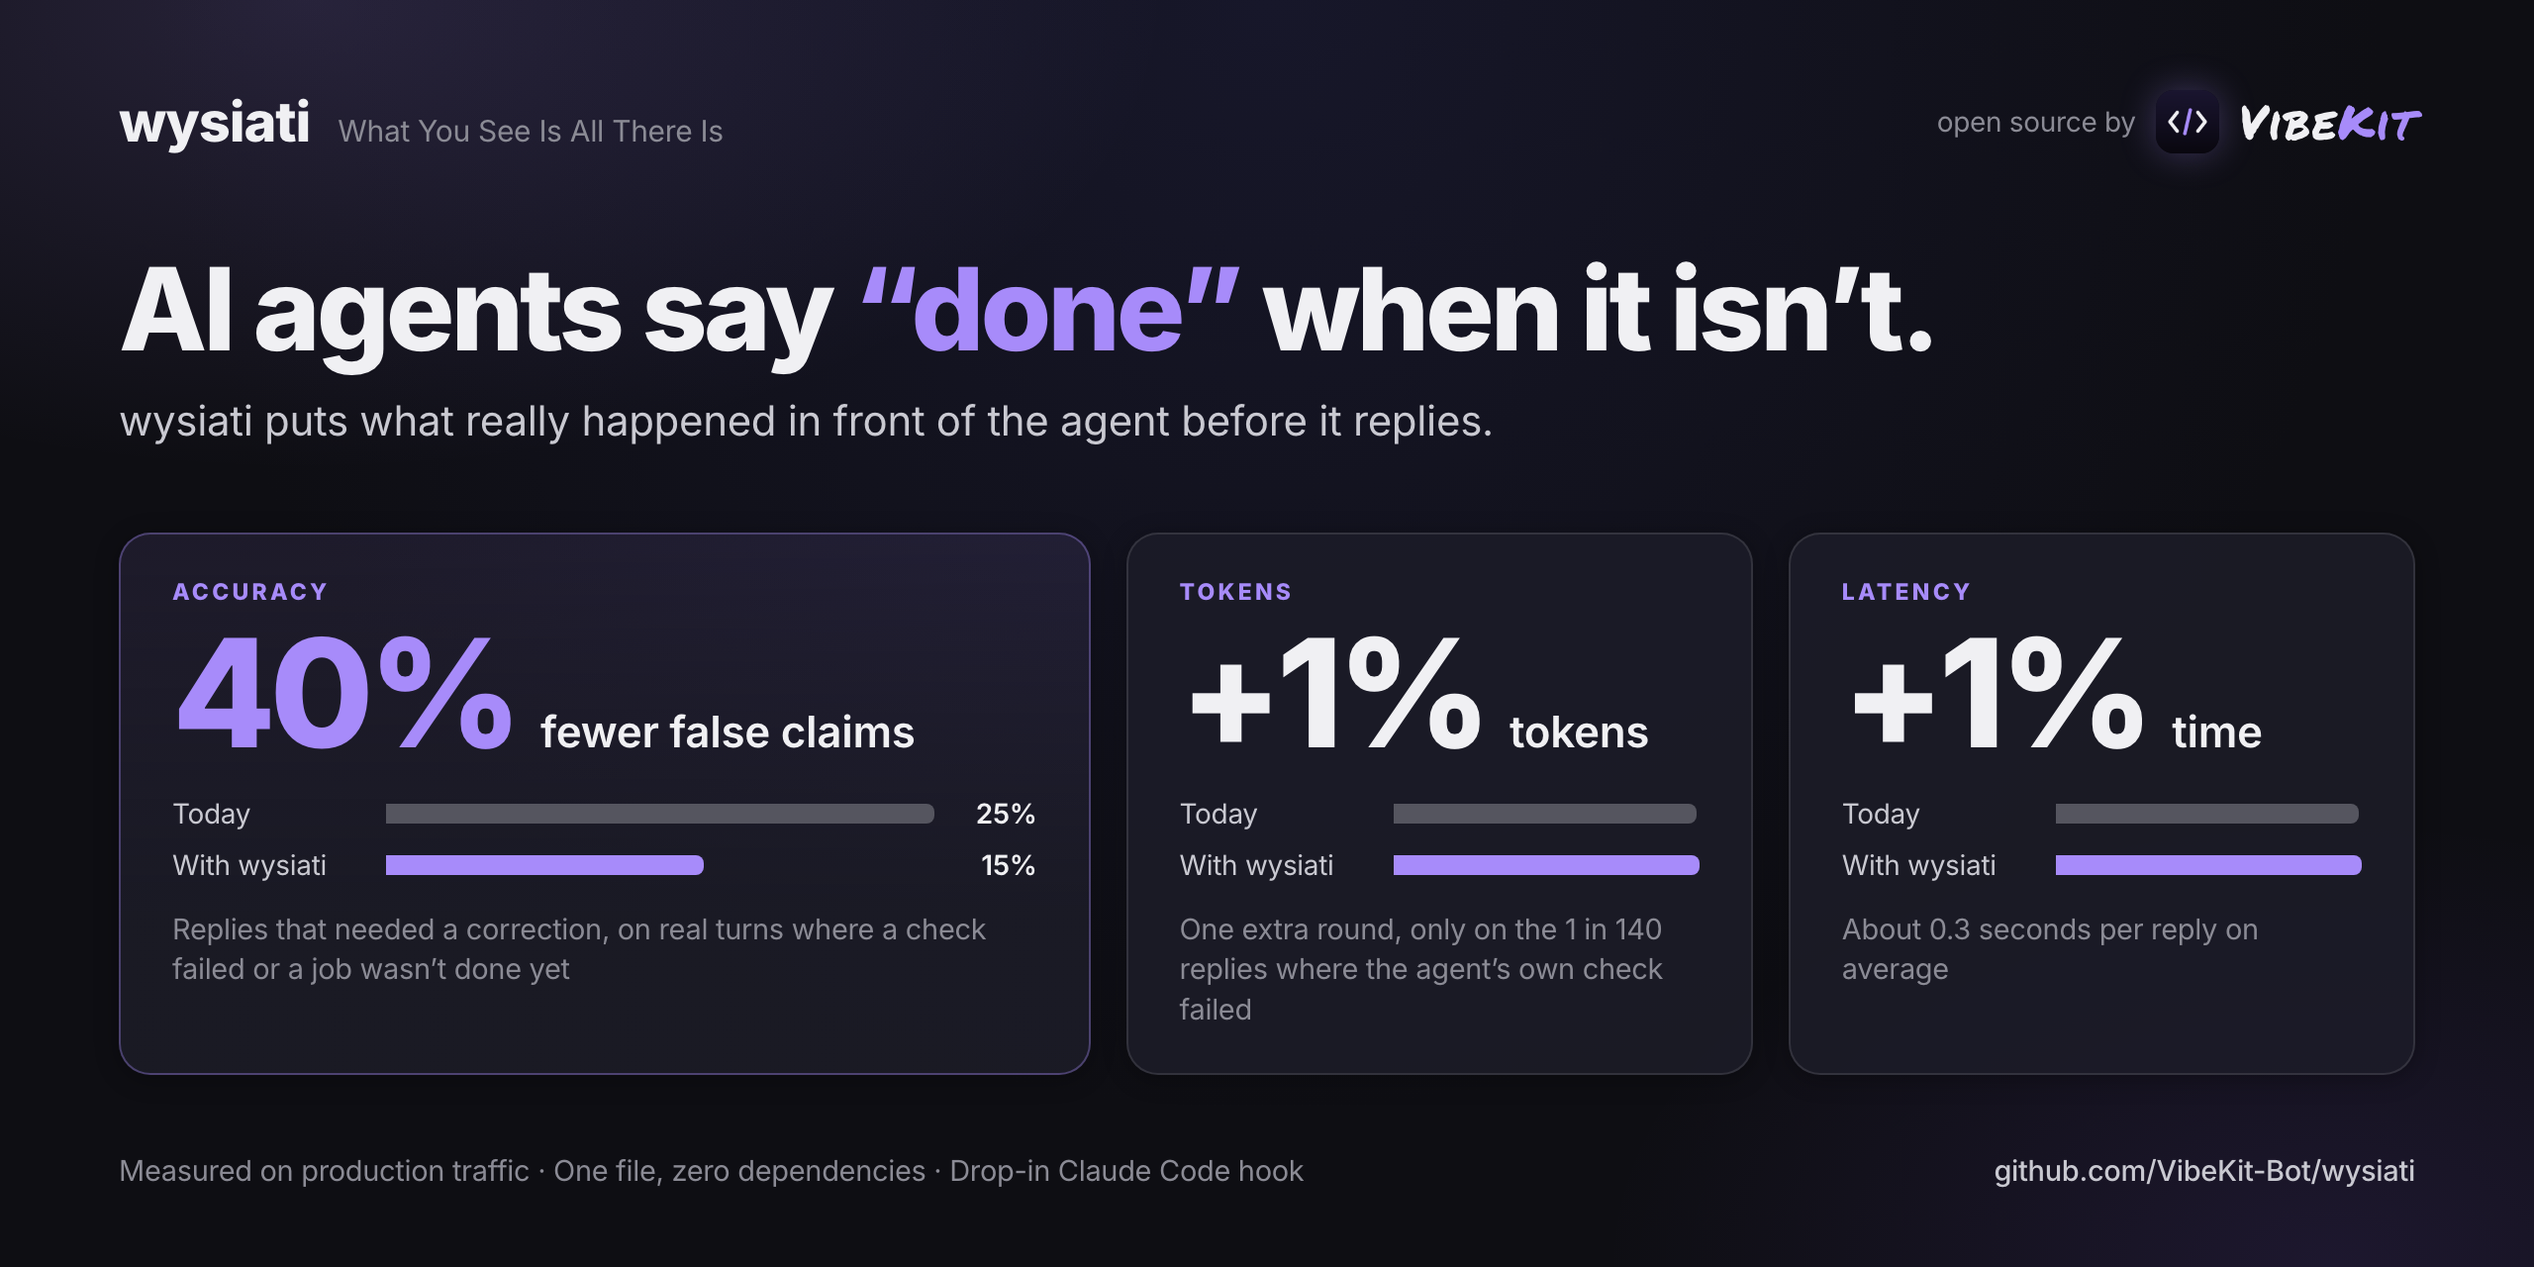
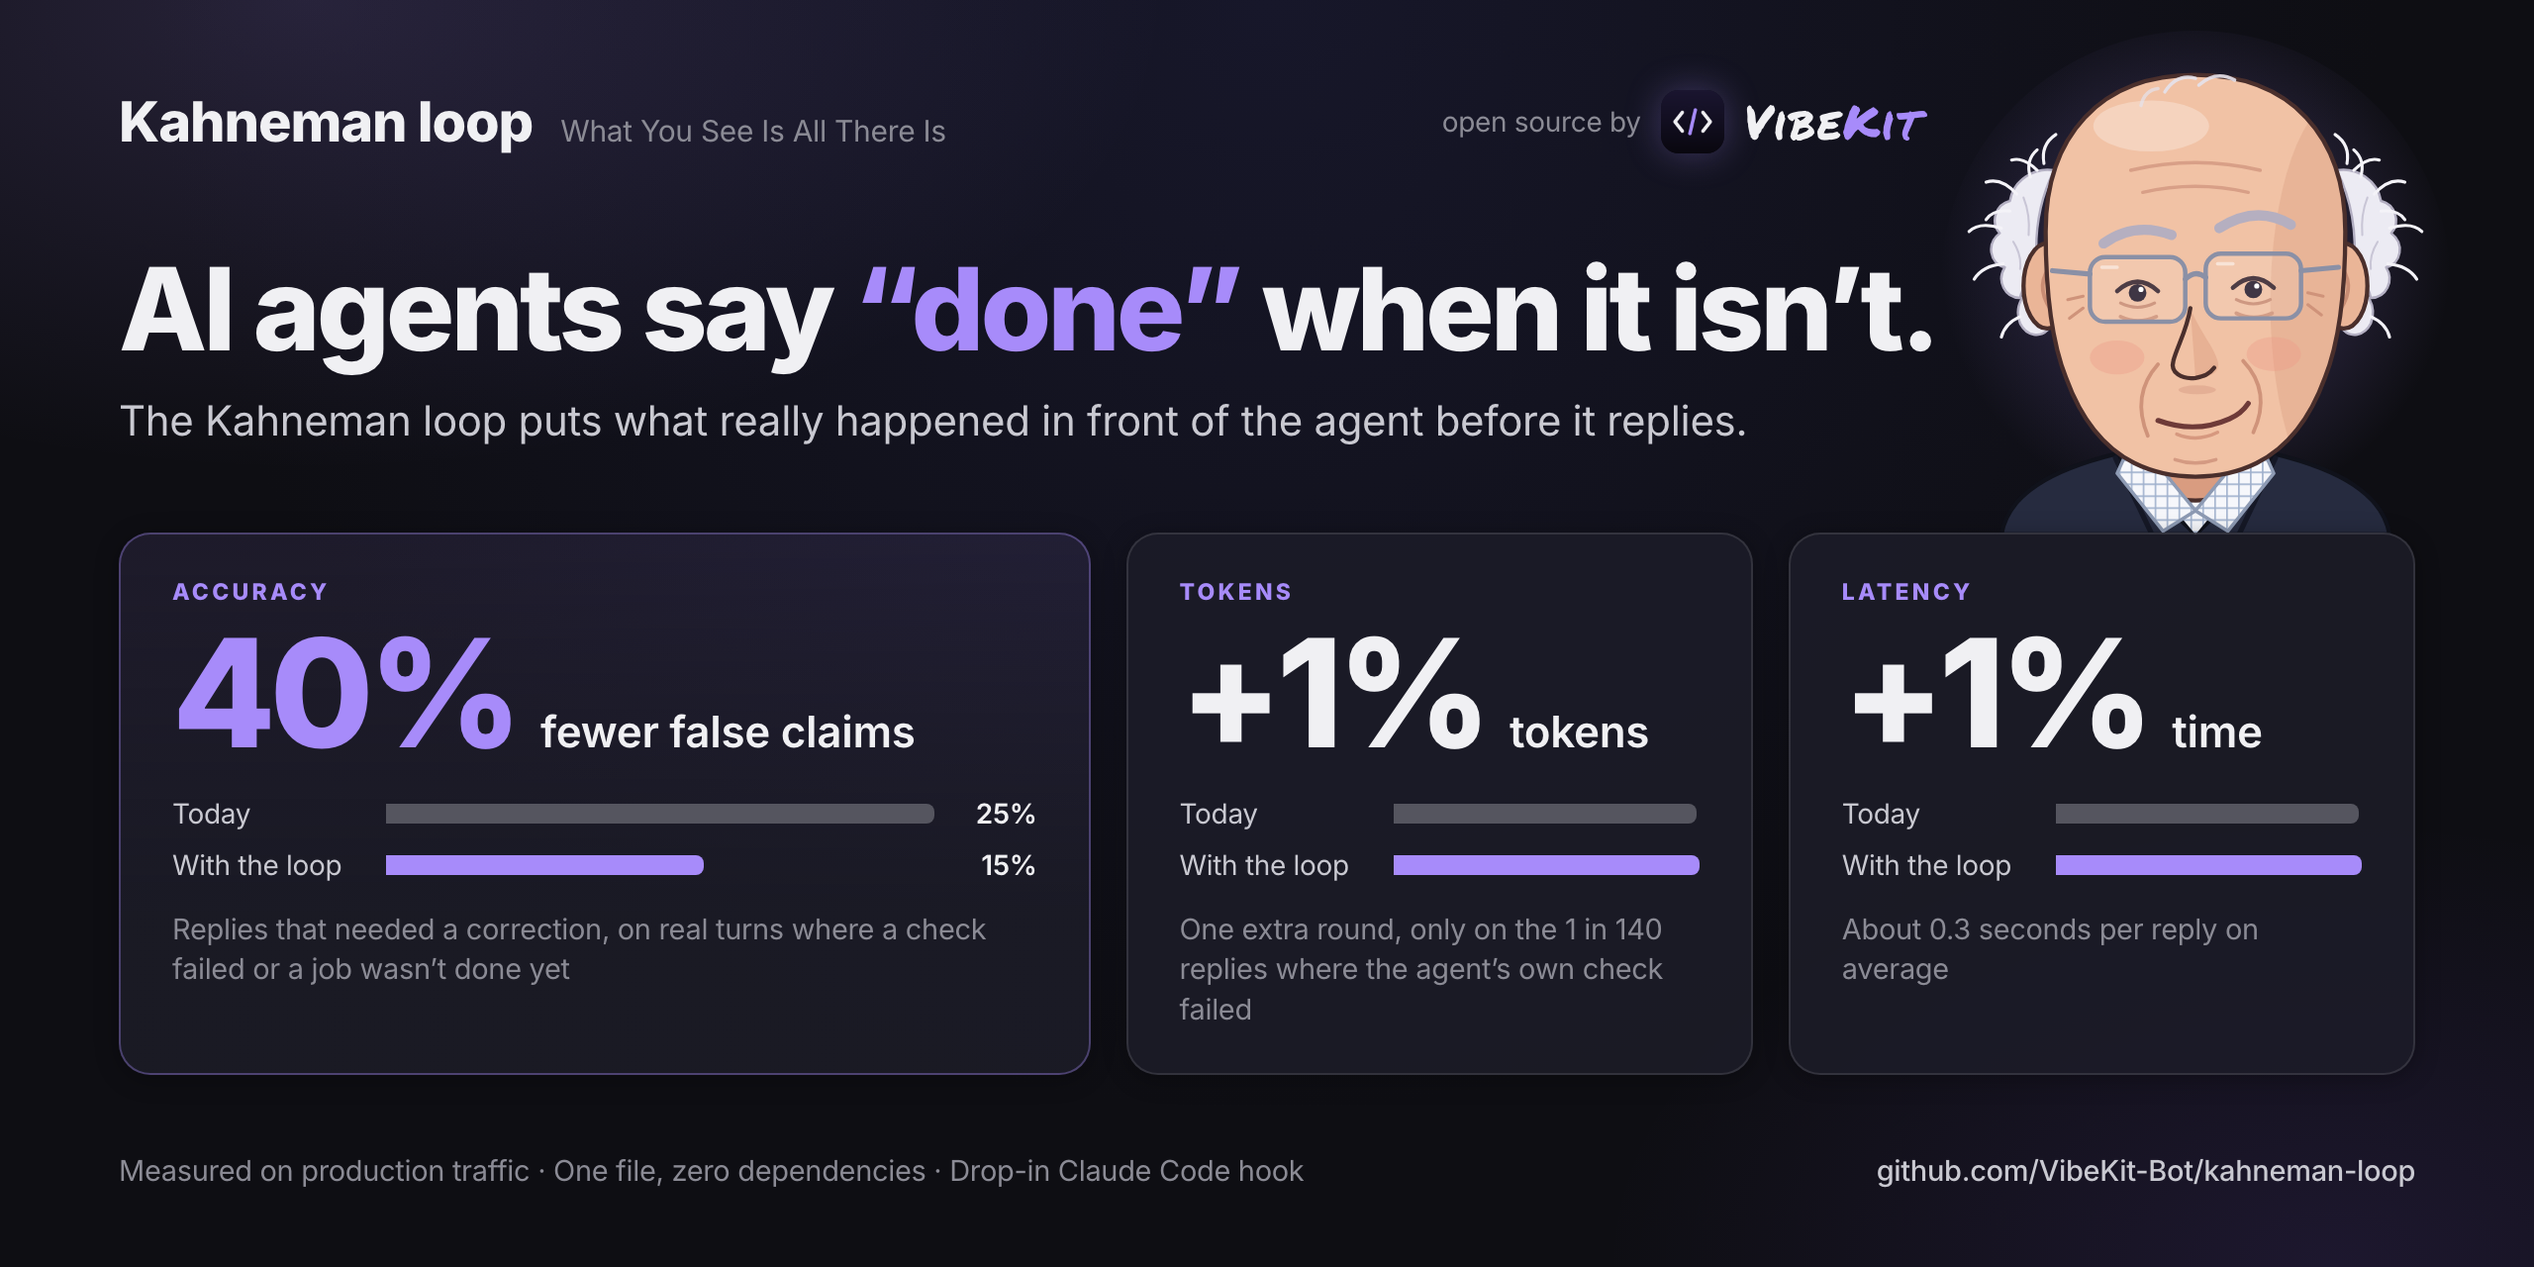
Rename to the Kahneman loop, add the Kahneman cartoon to the hero
wysiati.ts becomes kahneman-loop.ts (tests and stop-hook paths follow). The README
leads with the new name, places it beside the Ralph loop, lists the other names the
failure goes by, and adds a Related work section. The hero now has a cartoon Kahneman
sitting on the latency card.

diff --git a/kahneman-loop.ts b/kahneman-loop.ts
@@ -1,9 +1,10 @@
 /**
- * wysiati: "What You See Is All There Is" (Kahneman). An agent judges only
- * from what is in its context. When a tool result says "deploy started", the
- * agent tells the user "it's live", because nothing in front of it says
- * otherwise. When its own check fails, it still writes "verified", because
- * the failure sits twenty steps back and the plan sits right here.
+ * The Kahneman loop, after Kahneman's WYSIATI ("What You See Is All There
+ * Is"). An agent judges only from what is in its context. When a tool result
+ * says "deploy started", the agent tells the user "it's live", because
+ * nothing in front of it says otherwise. When its own check fails, it still
+ * writes "verified", because the failure sits twenty steps back and the plan
+ * sits right here.
  *
  * Two fixes, both measured on production traffic (README.md, eval/RESULTS.md):
  *

diff --git a/test/kahneman-loop.test.ts b/test/kahneman-loop.test.ts
@@ -1,6 +1,6 @@
 import { test } from 'node:test';
 import assert from 'node:assert/strict';
-import { CheckLedger, handBack, jobVerdict, runTurnWithHandBack, verdict, withVerdict } from '../wysiati.ts';
+import { CheckLedger, handBack, jobVerdict, runTurnWithHandBack, verdict, withVerdict } from '../kahneman-loop.ts';
 
 test('the verdict comes first in a tool result', () => {
   const out = withVerdict({ status: 'starting', jobId: 'j1' }, verdict.notDoneYet('live', 'starting', 'its status is "done"'));

diff --git a/eval/ab_replay.py b/eval/ab_replay.py
@@ -57,7 +57,7 @@ def rough_tokens(obj):
 
 
 def arm_b(messages, b_results):
-    """The same context with the wysiati version of each changed tool result."""
+    """The same context with the Kahneman loop version of each changed tool result."""
     return [{**m, 'content': b_results[m['tool_call_id']]} if m.get('role') == 'tool' and m.get('tool_call_id') in b_results else m
             for m in messages]
 

diff --git a/README.md b/README.md
@@ -1,11 +1,12 @@
-# wysiati
+# The Kahneman loop
 
-<img alt="wysiati: 40% fewer false claims (replies needing a correction fell from 25% to 15% on real production turns where a check failed or a job wasn't done yet), for about 1% more tokens and about 1% more time." src="assets/hero.png">
+<img alt="The Kahneman loop: 40% fewer false claims (replies needing a correction fell from 25% to 15% on real production turns where a check failed or a job wasn't done yet), for about 1% more tokens and about 1% more time." src="assets/hero.png">
 
 **AI agents say "done" when it isn't.** The deploy hadn't finished, or the test the agent just ran had failed, and
-it tells the user it's fixed anyway. wysiati puts what really happened in front of the agent before it replies.
+it tells the user it's fixed anyway. The Kahneman loop puts what really happened in front of the agent before
+it replies, and hands its own failed check back once before it can say "done".
 
-> **With wysiati, our agents made 40% fewer false claims, for about 1% more tokens and 1% more time.**
+> **With the Kahneman loop, our agents made 40% fewer false claims, for about 1% more tokens and 1% more time.**
 
 That's measured on real production traffic. On turns where a check had failed or a job wasn't done yet,
 replies that needed a correction fell from **25% to 15%**. The cost is averaged over every reply: the
@@ -14,7 +15,12 @@ which comes to about 0.3 seconds per reply. It's one file with zero dependencies
 Stop hook for Claude Code.
 
 A *false claim* here is a claim that a tool result contradicts ("all tests pass" after a red test run)
-or that no tool result backs ("I tested it" when nothing was tested).
+or that no tool result backs ("I tested it" when nothing was tested). The failure has a few names
+already: outcome hallucination, hallucinated success, illusory completion (see [Related work](#related-work)).
+
+The [Ralph loop](https://ghuntley.com/ralph/) keeps an agent going round on the same task. The Kahneman
+loop stops it from saying the task is done before it is. It's named after Daniel Kahneman, whose idea
+of WYSIATI ("What You See Is All There Is", below) is the reason it works.
 
 ## Why agents do this
 
@@ -54,7 +60,7 @@ Every turn we measured already ran with this line in the agent's instructions:
 > **NEVER say "fixed"/"works"/"verified"/"I tested it" unless a tool call you just made returned a real success.**
 
 A quarter of the affected replies still needed a correction. A rule is one more thing far up the
-context that the agent has to remember. wysiati doesn't ask the agent to remember better. It makes the
+context that the agent has to remember. The Kahneman loop doesn't ask the agent to remember better. It makes the
 missing fact available at the moment the agent decides what to say.
 
 ## The fix: put the missing fact in front of the agent
@@ -94,7 +100,7 @@ ones; see [eval/RESULTS.md](eval/RESULTS.md).)
 ### Claude Code: one hook
 
 ```bash
-git clone https://github.com/VibeKit-Bot/wysiati ~/wysiati
+git clone https://github.com/VibeKit-Bot/kahneman-loop ~/kahneman-loop
 ```
 
 Add to `.claude/settings.json` in your project (or `~/.claude/settings.json` for every project):
@@ -102,7 +108,7 @@ Add to `.claude/settings.json` in your project (or `~/.claude/settings.json` for
 ```json
 {
   "hooks": {
-    "Stop": [{ "hooks": [{ "type": "command", "command": "node ~/wysiati/claude-code/stop-hook.mjs" }] }]
+    "Stop": [{ "hooks": [{ "type": "command", "command": "node ~/kahneman-loop/claude-code/stop-hook.mjs" }] }]
   }
 }
 ```
@@ -115,11 +121,11 @@ at the top of [claude-code/stop-hook.mjs](claude-code/stop-hook.mjs).
 
 ### Your own agent harness: copy one file
 
-Copy [wysiati.ts](wysiati.ts) into your harness. Node 22.6+ runs it as is, and any TypeScript
+Copy [kahneman-loop.ts](kahneman-loop.ts) into your harness. Node 22.6+ runs it as is, and any TypeScript
 toolchain compiles it. There are three touch points:
 
 ```ts
-import { CheckLedger, jobVerdict, runTurnWithHandBack, verdict, withVerdict } from './wysiati';
+import { CheckLedger, jobVerdict, runTurnWithHandBack, verdict, withVerdict } from './kahneman-loop';
 
 // 1. In your tool executor: put the verdict first on results that don't establish the outcome.
 const job = await startDeploy(app);
@@ -152,11 +158,11 @@ alreadyHandedBack })` where your turn ends. It returns the message to send, or `
 
 These numbers come from production traffic on [VibeKit](https://vibekit.bot), a hosted agent that
 builds and runs apps, over three weeks in October 2026. Each affected turn was replayed with its
-real context on the same model. Arm A got today's tool results, and arm B got the wysiati results
-plus the hand-back. Each arm got two samples. A blind judge scored every reply on its own, shuffled,
+real context on the same model. Arm A got today's tool results, and arm B got the Kahneman loop's
+results plus the hand-back. Each arm got two samples. A blind judge scored every reply on its own, shuffled,
 against what the tools really did. Full method: [eval/METHOD.md](eval/METHOD.md).
 
-| | Replies needing correction: today | With wysiati | Drop, points (95% CI) |
+| | Replies needing correction: today | With the Kahneman loop | Drop, points (95% CI) |
 |---|---:|---:|---:|
 | **All affected turns** | 25% | **15%** | **10 (4 to 18)** |
 | Turns where the original reply was wrong | 57% | 29% | 28 (12 to 43) |
@@ -170,9 +176,9 @@ against what the tools really did. Full method: [eval/METHOD.md](eval/METHOD.md)
 - **Time: about 1% more.** Verdicts add no calls and no waiting. The hand-back round is the agent going
   back to fix what failed; spread over every reply, it's about 0.3 seconds, under 1%. VibeKit already
   runs the same hand-back in production, so these are the real tokens and seconds of those rounds
-  over the same three weeks, scaled to how often wysiati's hand-back fires.
-- **No harm on good turns:** where the original reply was already right, wysiati didn't add mistakes
-  (8% needed correction today, 7% with wysiati).
+  over the same three weeks, scaled to how often the Kahneman loop's hand-back fires.
+- **No harm on good turns:** where the original reply was already right, the loop didn't add mistakes
+  (8% needed correction today, 7% with the loop).
 - **Reach:** about 6% of all turns were affected. Across all turns, that's about 1 in 200 replies
   that no longer needs correcting.
 
@@ -182,7 +188,7 @@ against what the tools really did. Full method: [eval/METHOD.md](eval/METHOD.md)
   verdicts plus the hand-back together.
 - **What happened after a hand-back wasn't measured.** In every sample the agent went back to work
   instead of replying, so it never repeated the false claim. Its later reply was not replayed. If you
-  count only samples that ended in a reply, the rate is 28% today and 17% with wysiati.
+  count only samples that ended in a reply, the rate is 28% today and 17% with the loop.
 - **The data comes from one platform and one month.** The mix was app building, deploys and UI
   checks, with several models. Your traffic may differ, so [measure it](eval/).
 - **The judge is a model** (Claude Sonnet 5.5, a fixed rubric, blind to which arm wrote each reply).
@@ -203,6 +209,24 @@ anything. See [eval/METHOD.md](eval/METHOD.md).
 ```bash
 node --test test/*.test.*
 ```
+
+## Related work
+
+Others have named and measured the same failure. What the Kahneman loop adds is the trigger (the agent's
+own failed check, not the wording of its reply) and a measured cost on production traffic.
+
+- **Illusory completion.** "When Is Enough Not Enough? Illusory Completion in Search Agents",
+  [arXiv:2602.07549](https://arxiv.org/abs/2602.07549), 2026. Search agents stop before they have
+  checked every part of the question. Their fix keeps a ledger of what is still unverified, updated
+  by an extra model call at each step: up to 11.6 points more accuracy and 26.5 points fewer
+  under-verified answers. The cost of those calls isn't reported.
+- **Outcome hallucination.** [TestMu AI on agent action hallucination](https://www.testmuai.com/learning-hub/agent-action-hallucination/).
+  When a tool returned a success-shaped "accepted" payload, the agent reported "done" 10 times out of
+  10; an explicit error brought that to 0 of 10 (one model, 10 trials). That's the same idea as
+  verdict-first results.
+- **Hallucinated success.** Tian Pan, ["The Hallucinated Success Problem: When Your Agent Says Done and
+  Means Nothing"](https://tianpan.co/blog/2026-04-23-hallucinated-success-agent-false-completion), 2026.
+  Proposes checker agents and assertions on side effects before a "done" is accepted. Not measured.
 
 ## Background reading
 

diff --git a/eval/METHOD.md b/eval/METHOD.md
@@ -7,7 +7,7 @@ messy, real turns. So we replayed real ones.
 
 ## 1. Find the affected turns
 
-A turn is affected when wysiati would change something the agent saw **before** it wrote its final
+A turn is affected when the Kahneman loop would change something the agent saw **before** it wrote its final
 reply:
 - a tool result that would get a verdict: a job that hadn't finished, a call that was refused, or
   a check that couldn't run; or
@@ -16,7 +16,7 @@ reply:
 On VibeKit, about 6% of agent turns over three weeks in October 2026 were affected. We left out:
 - turns whose tool result the platform no longer produces, since its behavior changed after the turn;
 - turns where every changed result came after the reply;
-- turns that an existing mechanism had already handed back once (counting them would credit wysiati
+- turns that an existing mechanism had already handed back once (counting them would credit the Kahneman loop
   for work already being done);
 - the few the judge couldn't score.
 
@@ -35,7 +35,7 @@ original turn. This is the hard part and depends on your harness's transcript fo
  "model": "provider/model-name",
  "messages": [ ...OpenAI chat messages up to, not including, the final reply, as recorded... ],
  "tools": [ ...OpenAI tool definitions, optional... ],
- "b_results": {"call_7": "the wysiati version of that tool result"},
+ "b_results": {"call_7": "the Kahneman loop version of that tool result"},
  "hand_back": "[System: your own check this turn came back failed: ...]",
  "original_reply": "what the agent really said, optional: used for the fidelity check",
  "judge_view": {"user": "...", "steps": [{"t": "tool", "a": "args", "s": "ok|err|pending", "r": "result"}]}}
@@ -46,7 +46,7 @@ original turn. This is the hard part and depends on your harness's transcript fo
 ## 3. Two arms, same model
 
 - **Arm A (today):** the context as recorded.
-- **Arm B (wysiati):** the same context with each changed tool result replaced by its wysiati
+- **Arm B (Kahneman loop):** the same context with each changed tool result replaced by its new
   version. If the turn gets a hand-back and arm B's sample ends in a plain reply, the reply and the
   hand-back message are appended and the model is sampled again. That answer is arm B's output.
 

diff --git a/eval/RESULTS.md b/eval/RESULTS.md
@@ -7,7 +7,7 @@ it to check its work. Several models were in use. This is the replay described i
 
 ## Scope
 
-- About 6% of agent turns were affected: wysiati would have changed something the agent saw before
+- About 6% of agent turns were affected: the Kahneman loop would have changed something the agent saw before
   its final reply.
 - We scored about 70% of those. The rest were left out because the platform no longer gives that
   tool result, the change came after the reply, an existing mechanism had already handed the turn
@@ -15,7 +15,7 @@ it to check its work. Several models were in use. This is the replay described i
 
 ## Replies needing correction
 
-Arm A gets today's tool results, and arm B gets the wysiati ones. The drop is A minus B, in
+Arm A gets today's tool results, and arm B gets the Kahneman loop ones. The drop is A minus B, in
 percentage points. The CI is a 95% bootstrap over turns.
 
 | Subset | Original reply | Arm A | Arm B | Drop (95% CI) | Acted A / B |
@@ -70,7 +70,7 @@ often still claims the rest is done. So the trigger is the failed check alone.
   under 1% of the average turn's time.
 - **How the hand-back's cost was measured:** VibeKit already runs the same hand-back message in
   production for other failed checks. We took the real tokens and wall-clock time of those
-  continuation turns over the same three weeks and scaled them by how often wysiati's hand-back
+  continuation turns over the same three weeks and scaled them by how often the Kahneman loop's hand-back
   fired. On average a continuation took slightly more tokens than an ordinary turn, almost all of
   them cached reads of the context the agent already had.
 - **Population effect:** about 0.5% of all agent turns end in a reply that no longer needs
